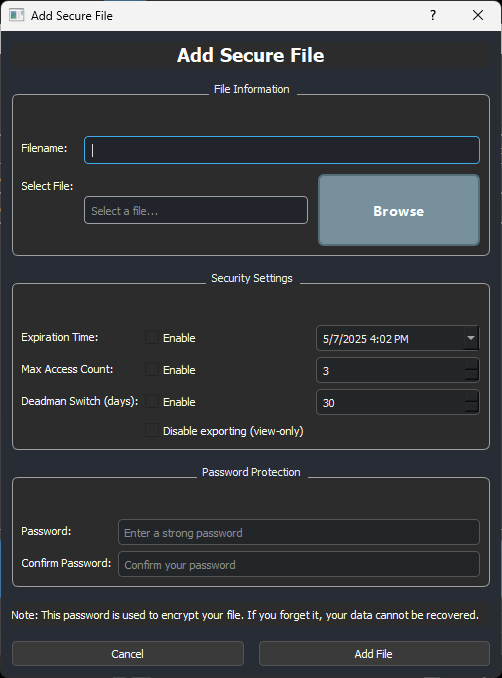
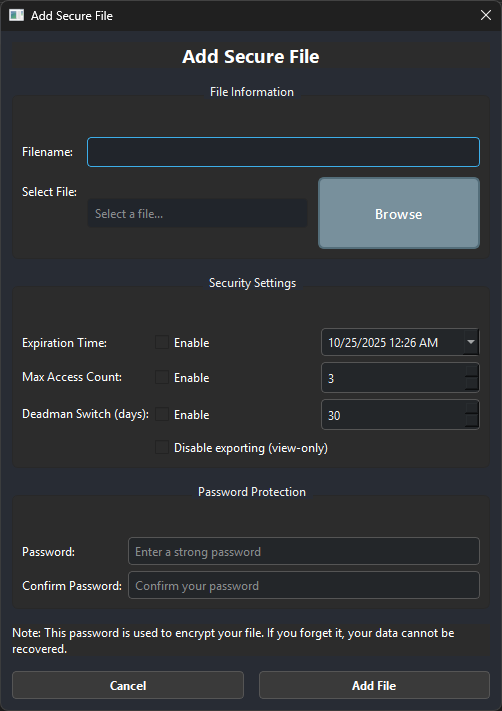
Oops! 🤦 Updated screenshots & fixed .gitignore - my bad for forgetting to refresh those old pics! The app got a makeover but the docs were still showing last season's photos. Now with 100% more up-to-date screenshots and way less clutter in the README 📸✨

diff --git a/README.md b/README.md
@@ -195,6 +195,12 @@ Okay, if you're still reading, you probably want to know HOW all this security m
 ### First Time Using It?
 When you first open BAR, you'll set up your device with a master password. This is important—it's the key to everything!
 
+<details>
+<summary><b>View First Time Setup Screen</b></summary>
+
+[![First Time Login](resources/First_time_Login_interface.png)](resources/First_time_Login_interface.png)
+</details>
+
 - **Setup Screen**: Clean, simple, and works on any screen size
 - **Pick Your Security Level**: Go with Standard (pretty secure), High (very secure), or Maximum (paranoid level—wrong password 3 times and everything gets nuked)
 - **Lock It to Your Device**: Optional hardware binding means your files only work on THIS computer
@@ -248,10 +254,6 @@ This is where you'll spend most of your time—managing your secure files, check
    - Portable encrypted file: Exports the .bar file with all security constraints intact
 3. Select destination location
 4. Share the exported file securely
-
-[![Export Original File](resources/Export_original_file.png)](resources/Export_original_file.png)
-
-[![Export Encrypted File](resources/Export_portable_encrypted_file.png)](resources/Export_portable_encrypted_file.png)
 </details>
 
 <details>
@@ -287,10 +289,6 @@ BAR includes comprehensive protection for view-only files to prevent unauthorize
 - Mobile phone cameras cannot be blocked (hardware limitation)
 - External screen capture devices are not detectable
 - Administrative/elevated screenshot tools may bypass some protections
-
-<div align="center">
-<img src="resources/Media_File_Restriction_Warning.png" alt="View-Only File Protection" width="500">
-</div>
 </details>
 
 ### Application Settings
